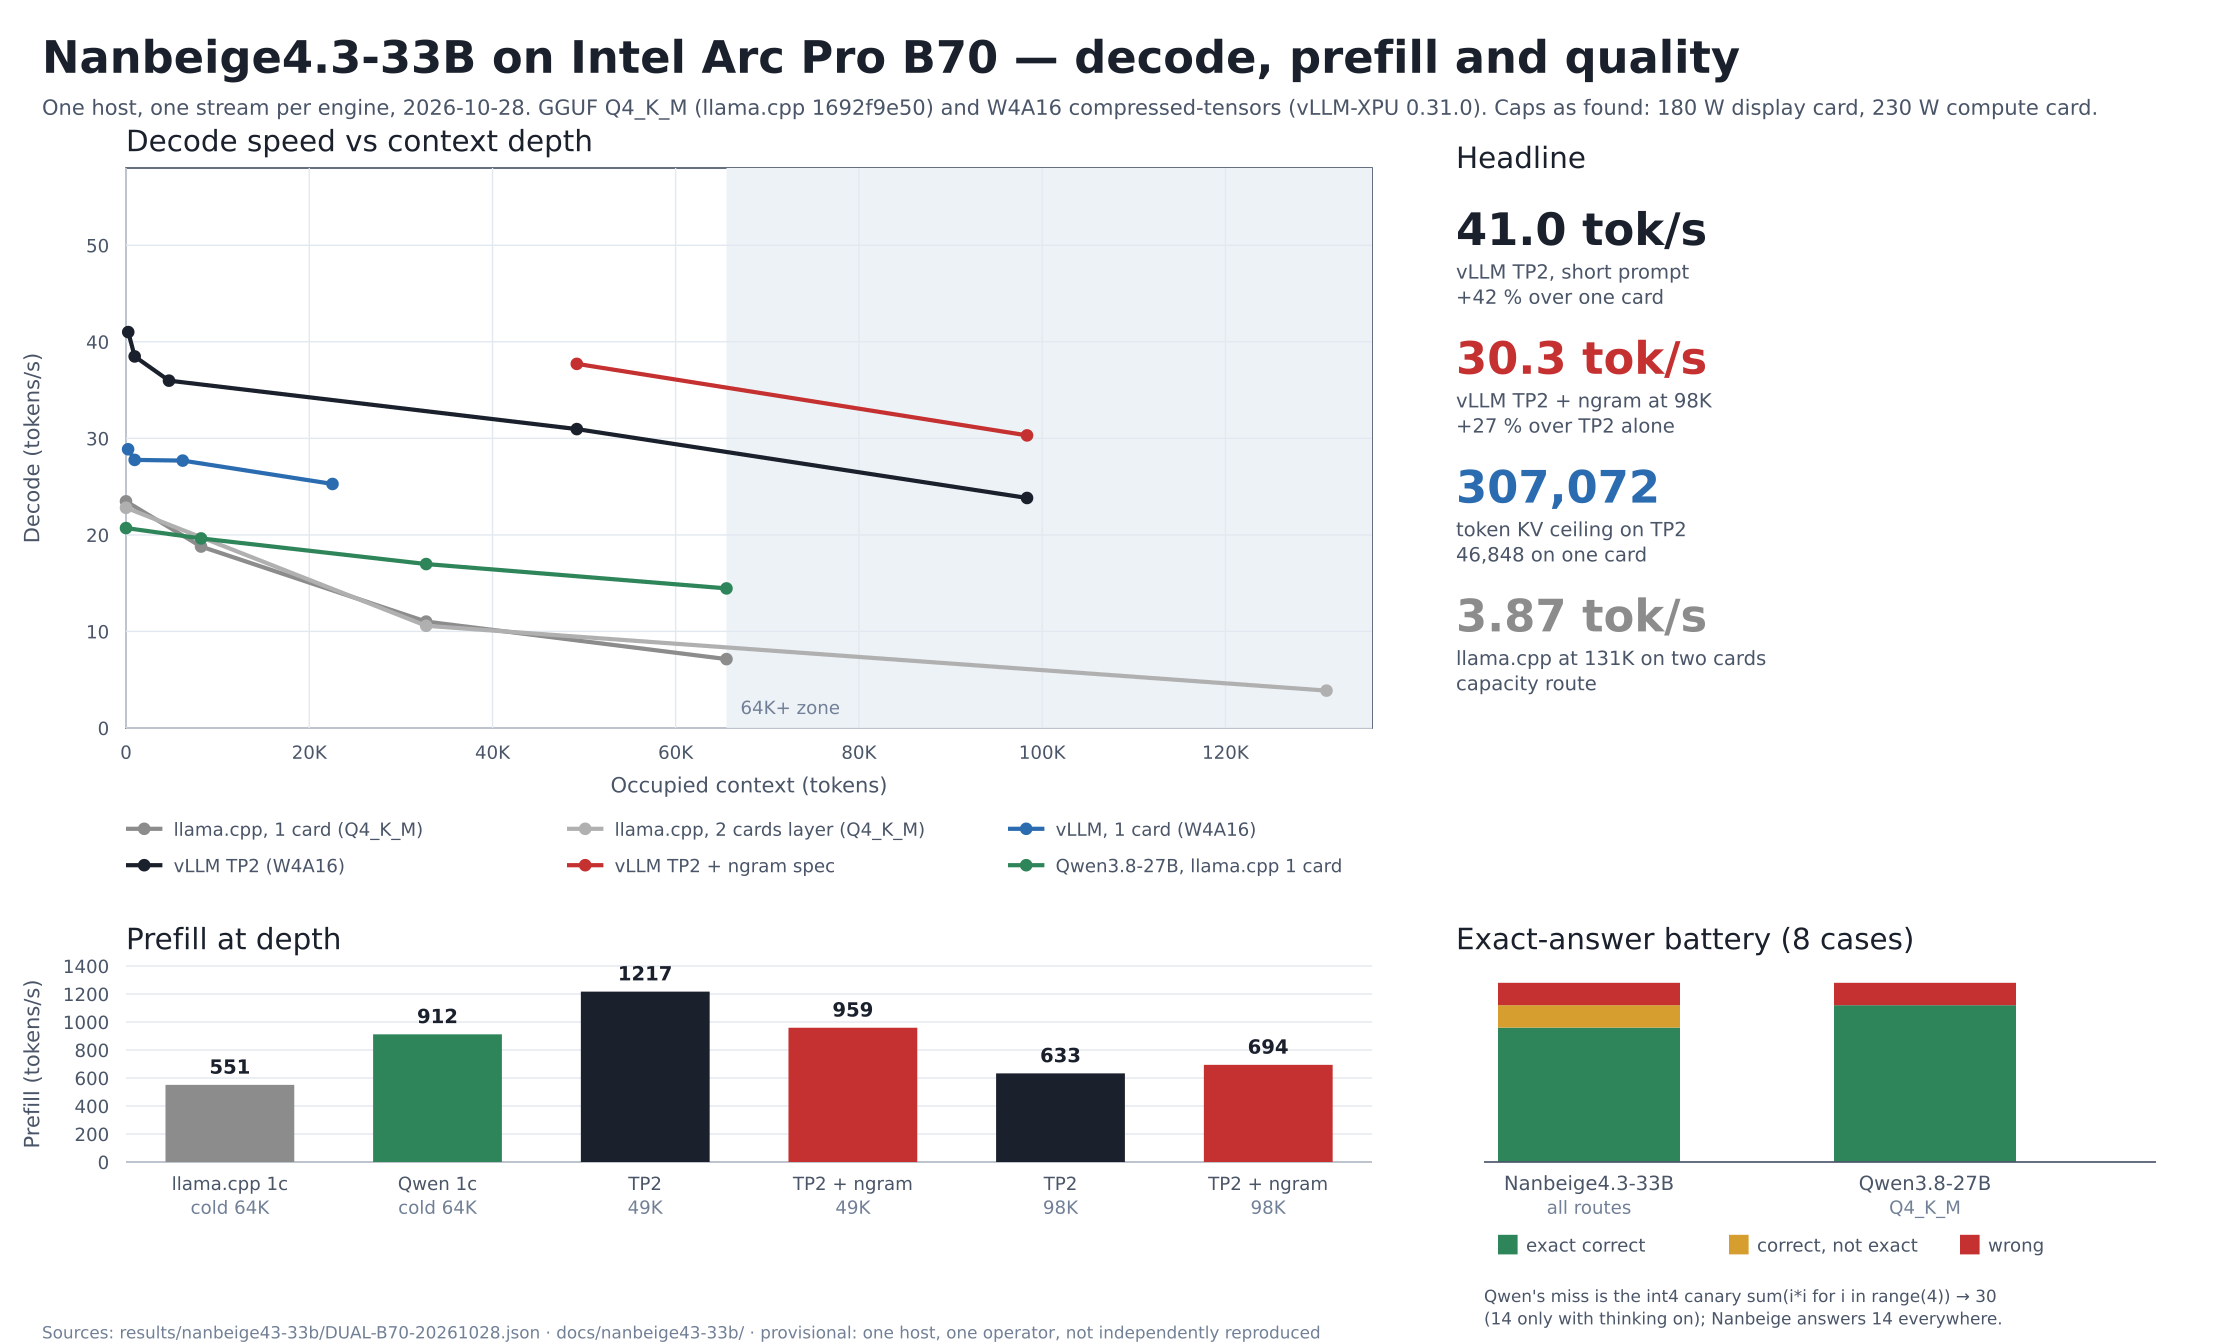
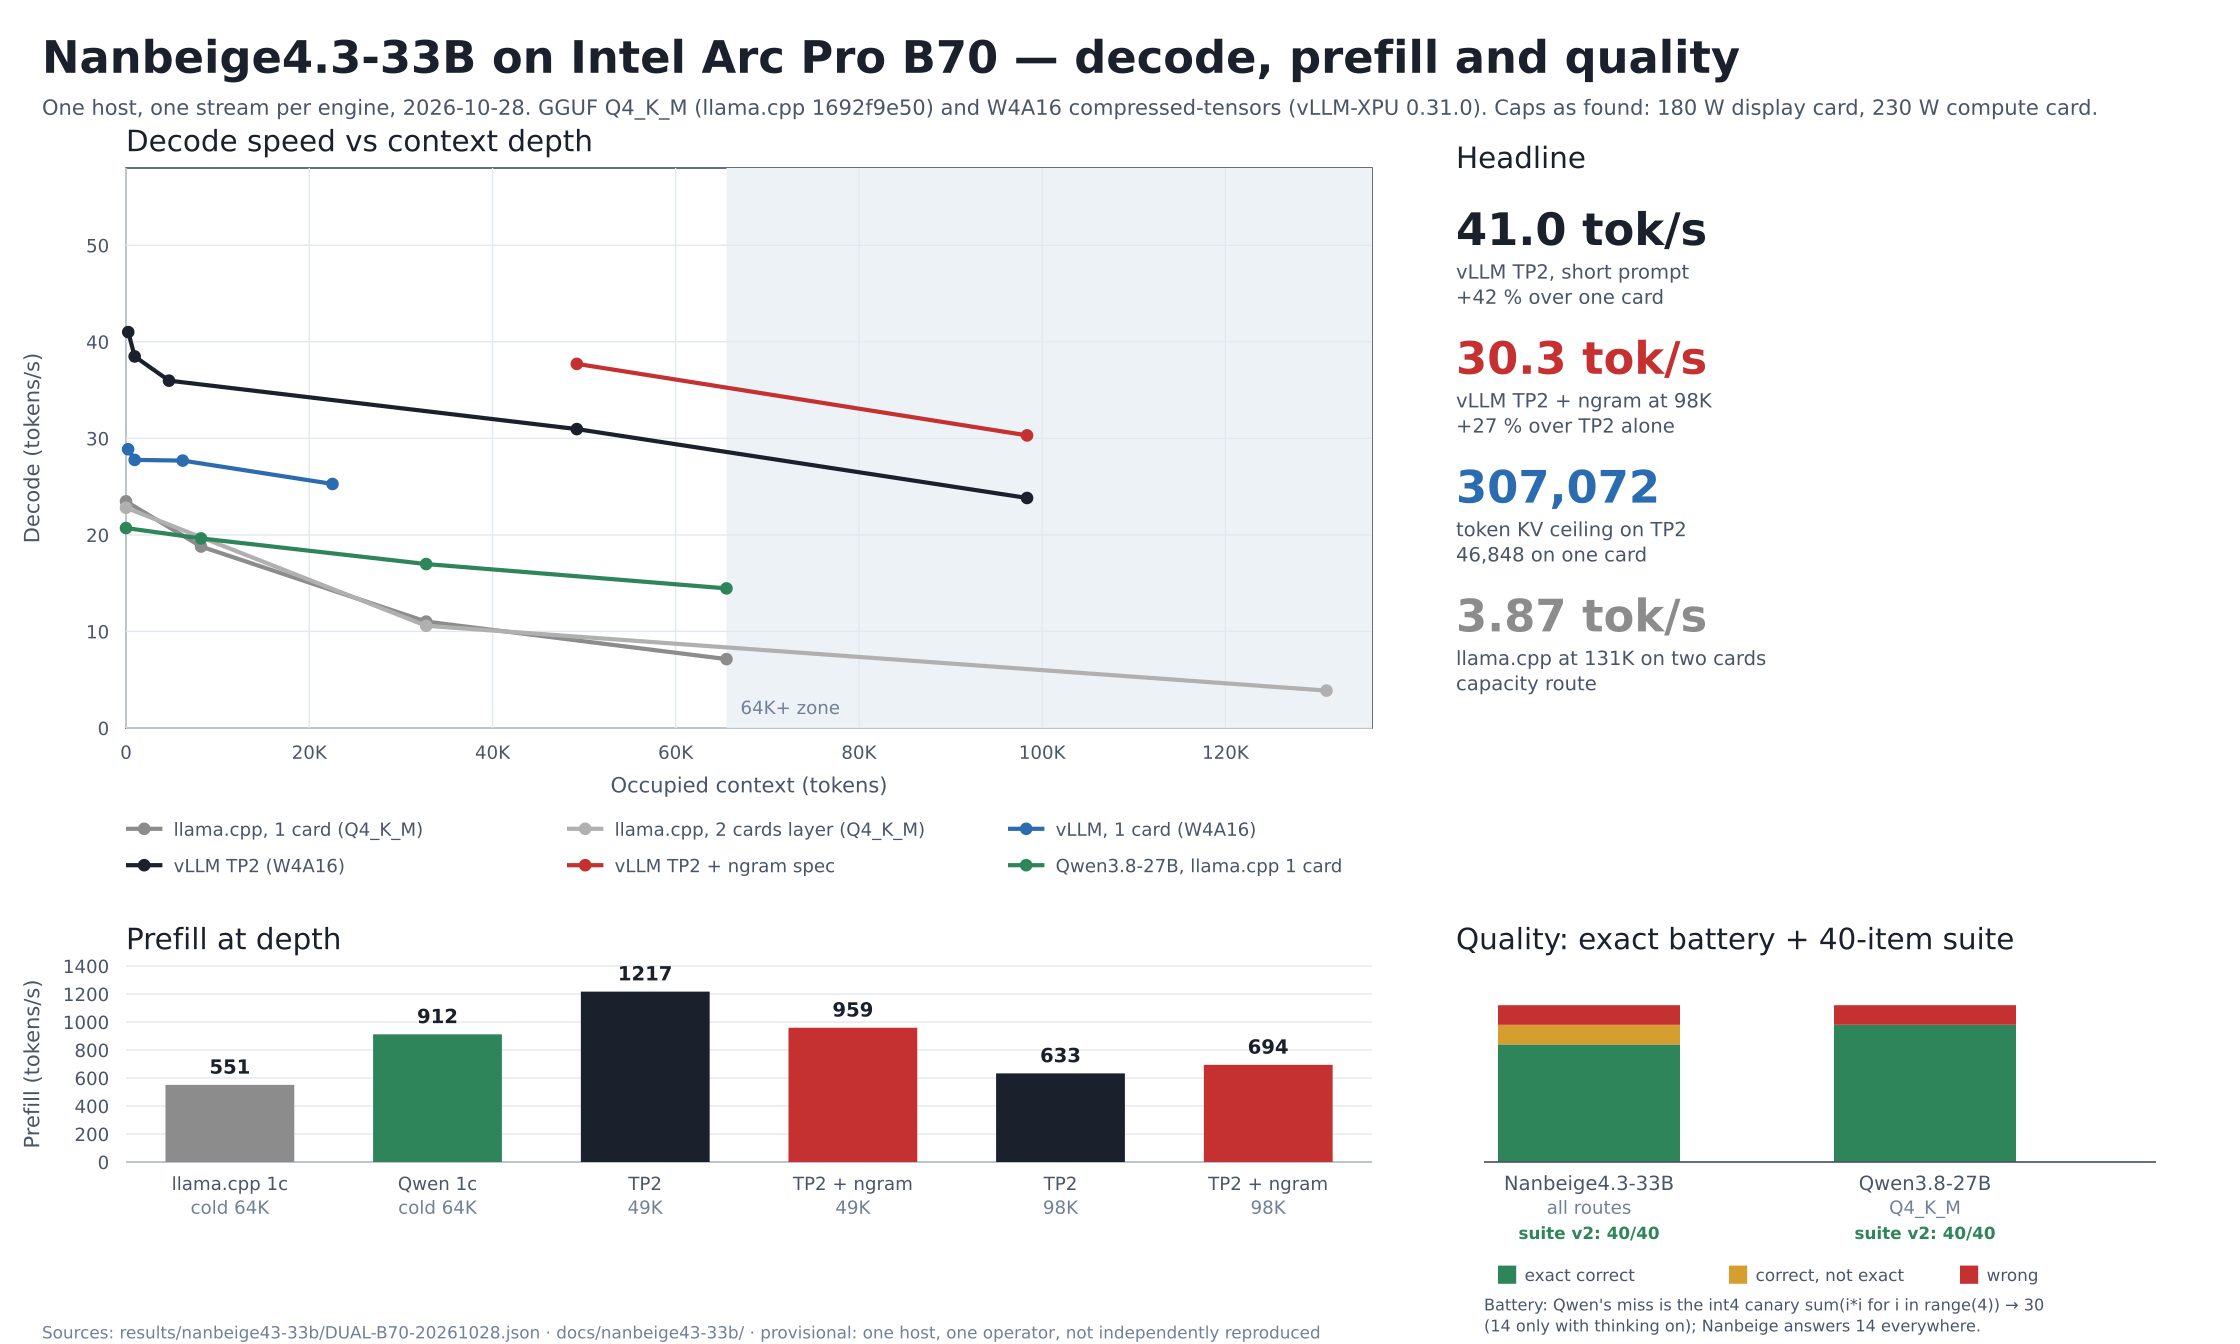
docs(nanbeige43-33b): put the 40-item suite result on the campaign figure

Changed region(s): [[0.6562, 0.9062, 0.9062, 1.0], [0.6562, 0.6875, 0.9062, 0.7812]]

diff --git a/benchmarks/nanbeige43-33b/render-results.py b/benchmarks/nanbeige43-33b/render-results.py
@@ -143,8 +143,8 @@ def main():
 
     # ---------------- panel C: quality ----------------
     qx0, qy0, qy1 = 1040, 690, 830
-    out.append(text(qx0, qy0 - 12, "Exact-answer battery (8 cases)", 21, INK))
-    unit = 16
+    out.append(text(qx0, qy0 - 12, "Quality: exact battery + 40-item suite", 21, INK))
+    unit = 14
     for i, (label, exact, verbose, wrong) in enumerate(BATTERY):
         bx = qx0 + 30 + i * 240
         base = qy1
@@ -155,13 +155,14 @@ def main():
         top, bottom = label.split("|")
         out.append(text(bx + 65, qy1 + 20, top, 14, MUTED, anchor="middle"))
         out.append(text(bx + 65, qy1 + 37, bottom, 13, FAINT, anchor="middle"))
+        out.append(text(bx + 65, qy1 + 55, "suite v2: 40/40", 12, GREEN, anchor="middle", weight="bold"))
     out.append(f'<line x1="{qx0 + 20}" y1="{qy1}" x2="{qx0 + 500}" y2="{qy1}" stroke="{MUTED}" stroke-width="1.2"/>')
     for i, (name, color) in enumerate((("exact correct", GREEN), ("correct, not exact", AMBER), ("wrong", RED))):
         lx2 = qx0 + 30 + i * 165
-        out.append(f'<rect x="{lx2}" y="{qy1 + 52}" width="14" height="14" fill="{color}"/>')
-        out.append(text(lx2 + 20, qy1 + 64, name, 13, MUTED))
-    out.append(text(qx0 + 20, qy1 + 100, "Qwen's miss is the int4 canary sum(i*i for i in range(4)) → 30", 12, MUTED))
-    out.append(text(qx0 + 20, qy1 + 116, "(14 only with thinking on); Nanbeige answers 14 everywhere.", 12, MUTED))
+        out.append(f'<rect x="{lx2}" y="{qy1 + 74}" width="13" height="13" fill="{color}"/>')
+        out.append(text(lx2 + 19, qy1 + 85, name, 12, MUTED))
+    out.append(text(qx0 + 20, qy1 + 106, "Battery: Qwen's miss is the int4 canary sum(i*i for i in range(4)) → 30", 11.5, MUTED))
+    out.append(text(qx0 + 20, qy1 + 121, "(14 only with thinking on); Nanbeige answers 14 everywhere.", 11.5, MUTED))
 
     out.append(text(30, 956, "Sources: results/nanbeige43-33b/DUAL-B70-20261028.json · docs/nanbeige43-33b/ · provisional: one host, one operator, not independently reproduced", 12, FAINT))
     out.append("</svg>")

diff --git a/docs/nanbeige43-33b/NANBEIGE43-33B-B70.md b/docs/nanbeige43-33b/NANBEIGE43-33B-B70.md
@@ -536,6 +536,10 @@ before this run (a case-sensitive instruction check, and an ambiguous "two cards
 item that accepted only `tarjetas`); both are unit-checked. Per-item outputs:
 [`results/nanbeige43-33b/quality/`](../../results/nanbeige43-33b/quality/).
 
+Both bars sit on the campaign figure
+([`assets/nanbeige43-33b-64k-20261028.png`](../assets/nanbeige43-33b-64k-20261028.png)),
+next to the decode and prefill panels.
+
 This does not cancel the 8-case battery in section 10: at thinking-off, Nanbeige answered one
 arithmetic item wrong (14 for 20) and Qwen answered the int4 canary wrong (30 for 14). Those
 are single-case observations, this suite is breadth.
